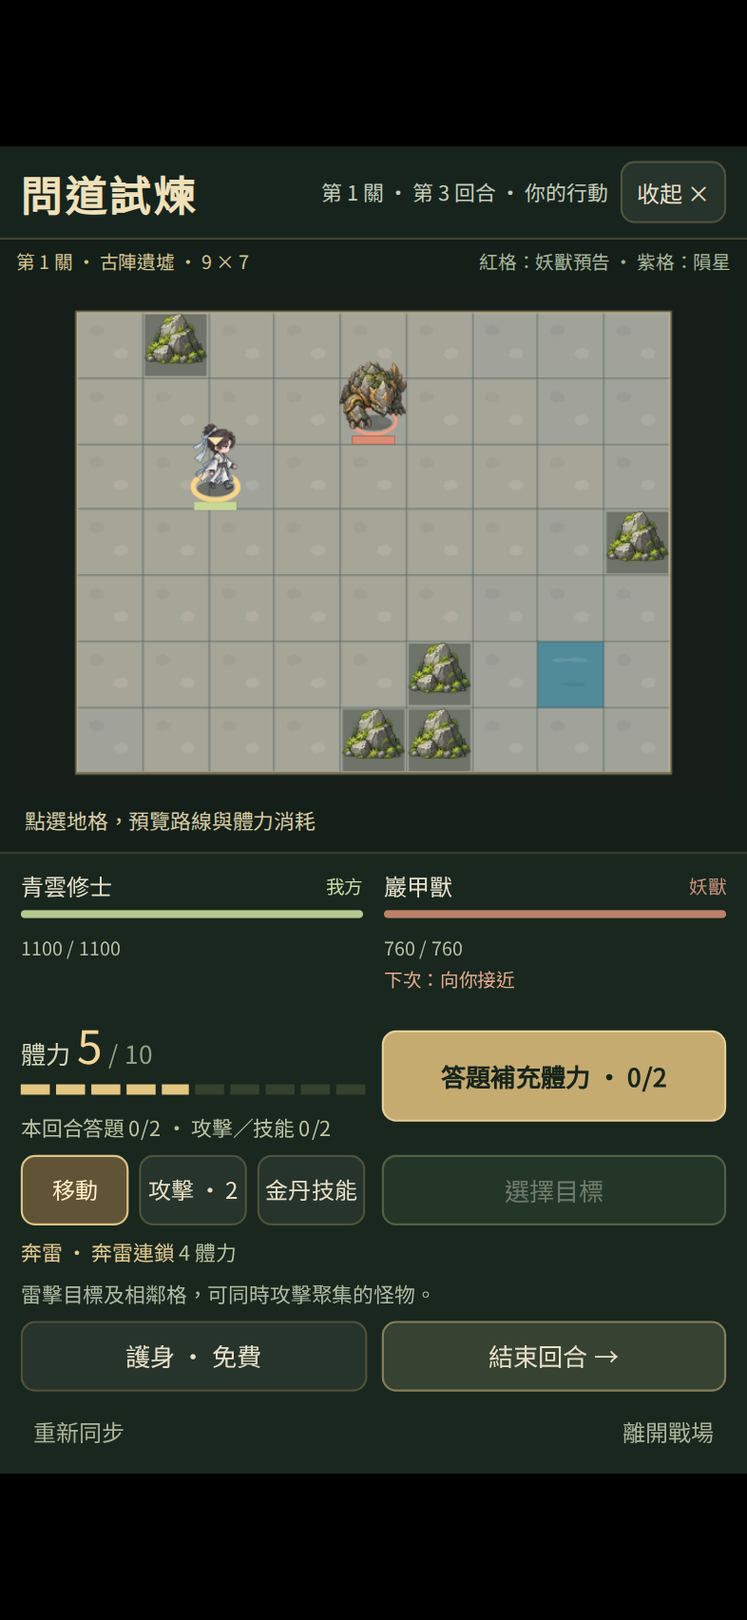
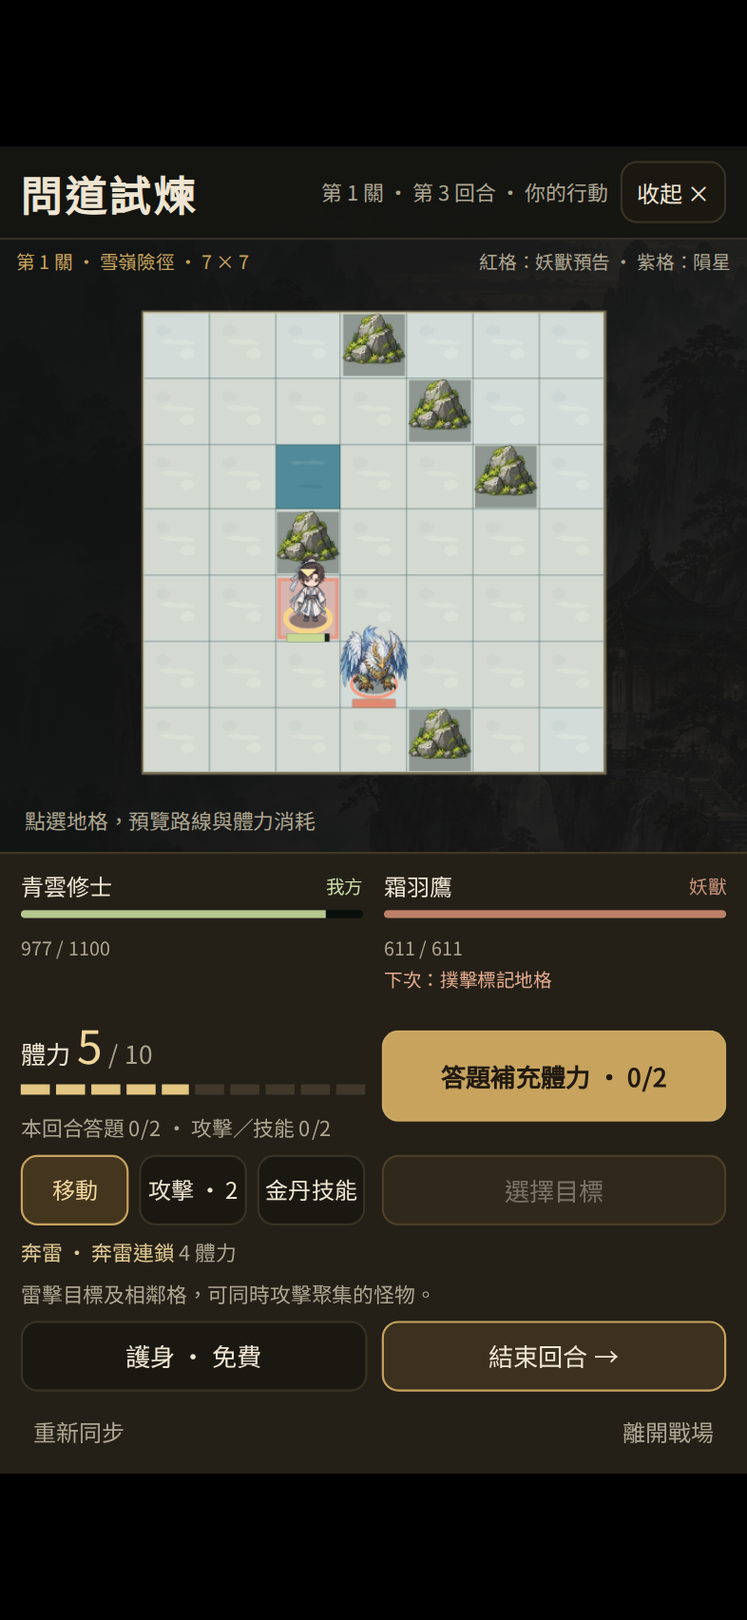
fix(trial): preserve the original question and ink-gold visual style
Reuse the existing question card, options, reading scale, and answer colors through shared theme selectors. Restore the mountain backdrop and ink-gold palette for the tactical trial while retaining compact controls and fixed stage ratios.

Keep stamina, movement, and sequential monster stages unchanged. Validate original-page appearance in portrait, landscape, and answer review; all 1,807 tests and six-size browser flows pass.

diff --git a/public/styles/tactical-combat.css b/public/styles/tactical-combat.css
@@ -1,21 +1,22 @@
-/* Ink, bronze and jade: contained by the existing 16:9 / 9:16 game stage. */
+/* Reuse the existing ink-and-gold theme inside the shared 16:9 / 9:16 stage. */
 /* The shared game-frame owns aspect fitting and black bars. Fill its logical
    canvas, so battle, questions and results scale together with the original UI. */
-#tactical-combat{position:fixed;inset:0;width:100%;height:100%;max-width:100%;max-height:100%;box-sizing:border-box;z-index:24000;display:flex;flex-direction:column;overflow:hidden;background:#101a17;color:#e5dfcb;font-family:inherit;font-size:14px;isolation:isolate}
+#tactical-combat{position:fixed;inset:0;width:100%;height:100%;max-width:100%;max-height:100%;box-sizing:border-box;z-index:24000;display:flex;flex-direction:column;overflow:hidden;background:var(--xq-ink,#17140f);color:var(--review-paper,var(--xq-paper,#eee4d0));font-family:var(--ui-font,inherit);font-size:14px;isolation:isolate}
+#tactical-combat::before,#tactical-combat .tc-modal:has(.tc-quiz)::before{content:"";position:absolute;inset:0;z-index:-1;pointer-events:none;background:linear-gradient(110deg,rgba(16,17,16,.94),rgba(22,22,18,.91)),var(--xq-scene-art,none) center/cover;filter:saturate(.35)}
 #tactical-combat[hidden],#tactical-combat [hidden]{display:none!important}
 #tactical-combat *{box-sizing:border-box}
 #tactical-combat button,#tactical-combat input{font:inherit}
-#tactical-combat button{min-height:42px;padding:9px 14px;border:1px solid #bba46b47;border-radius:7px;color:#e7dfc8;background:#26342b;cursor:pointer;line-height:1.35;transition:background .15s,border-color .15s}
-#tactical-combat button:hover:not(:disabled){background:#3b4734;border-color:#d7be81}
+#tactical-combat button{min-height:42px;padding:9px 14px;border:1px solid var(--quiet-line,#d2b9892e);border-radius:var(--ui-control-radius,8px);color:var(--review-paper,var(--xq-paper,#eee4d0));background:var(--quiet-inset,#1b1812);cursor:pointer;line-height:1.35;transition:background .15s,border-color .15s}
+#tactical-combat button:hover:not(:disabled){background:#3c301e;border-color:var(--xq-gold,#c7a35e)}
 #tactical-combat button:focus-visible,#tactical-combat canvas:focus-visible,#tactical-combat summary:focus-visible,#tactical-combat input:focus-visible{outline:2px solid #f1d48b;outline-offset:3px}
 #tactical-combat button:disabled{opacity:.42;cursor:default}
-#tactical-combat button[aria-pressed=true]{border-color:#dac286;background:#615335;color:#fff0c8}
-#tactical-combat h1,#tactical-combat h2,#tactical-combat h3{font-family:"Noto Serif TC","Songti TC",serif;margin:0;color:#f0e1ba}
+#tactical-combat button[aria-pressed=true]{border-color:var(--xq-gold,#c7a35e);background:#44351f;color:#f1d79f}
+#tactical-combat h1,#tactical-combat h2,#tactical-combat h3{font-family:"Noto Serif TC","Songti TC",serif;margin:0;color:var(--review-paper,var(--xq-paper,#eee4d0))}
 #tactical-combat p{margin:0;line-height:1.7}
-.tc-top{flex:0 0 auto;display:flex;align-items:center;justify-content:space-between;padding:8px 16px;border-bottom:1px solid #c0ac7240;background:#17241e;gap:10px}
+.tc-top{flex:0 0 auto;display:flex;align-items:center;justify-content:space-between;padding:8px 16px;border-bottom:1px solid var(--quiet-line,#d2b9892e);background:rgba(21,21,18,.96);gap:10px}
 .tc-top small{display:none}
 .tc-top h1{font-size:21px;letter-spacing:.12em;white-space:nowrap}
-.tc-top-right{display:flex;align-items:center;gap:16px}.tc-top-right>span{font-size:12px;color:#c5cdb9}
+.tc-top-right{display:flex;align-items:center;gap:16px}.tc-top-right>span{font-size:12px;color:var(--review-muted,var(--xq-muted,#ada591))}
 .tc-main{margin:0;padding:0;min-width:0;min-height:0;flex:1;overflow:auto;overscroll-behavior:contain}
 .tc-notice{flex:0 0 auto;min-height:36px;padding:8px 24px;background:#533e29;border-bottom:1px solid #987345;color:#ffdfae;font-size:13px}
 .tc-hub{display:grid;grid-template-columns:minmax(240px,.9fr) minmax(360px,1.1fr);gap:48px;align-items:start;padding:30px max(24px,calc((100% - 1120px)/2))}
@@ -29,39 +30,54 @@
 .tc-maps{display:grid;grid-template-columns:repeat(3,1fr);gap:7px}.tc-maps button{padding:12px 5px!important}.tc-maps b{display:block;font-weight:500}.tc-maps span{display:block;font-size:10px;color:#b6c1ac;margin-top:7px}
 .tc-branches{display:grid;grid-template-columns:repeat(auto-fit,minmax(170px,1fr));gap:9px}.tc-branches button{text-align:left;display:flex;flex-direction:column;gap:9px;padding:14px!important;min-height:130px!important}
 .tc-branches small{color:var(--core-color);letter-spacing:.1em}.tc-branches b{font-weight:500}.tc-branches em{font-size:10px;font-style:normal;color:#c6cbb5;margin-left:3px}.tc-branches span{font-size:12px;color:#c0c9b4;line-height:1.7}
-#tactical-combat .tc-primary{background:#c5ab70;color:#18251c;border-color:#e4ce99;font-weight:700;padding:13px 16px;min-height:46px}
-#tactical-combat .tc-primary:hover:not(:disabled){background:#dec48a}.tc-hub-intro .tc-primary{margin-top:25px}
-.tc-muted{color:#a0af98;font-size:12px;line-height:1.65}
+#tactical-combat .tc-primary{background:var(--xq-gold,#c7a35e);color:#211a10;border-color:var(--quiet-accent-line,#d2af6970);font-weight:700;padding:13px 16px;min-height:46px}
+#tactical-combat .tc-primary:hover:not(:disabled){background:#d2b16e}.tc-hub-intro .tc-primary{margin-top:25px}
+.tc-muted{color:var(--review-muted,var(--xq-muted,#ada591));font-size:12px;line-height:1.65}
 .tc-equipped-skill{padding:14px;border:1px solid #bba46b47;background:#26342b;border-radius:7px;line-height:1.7}.tc-equipped-skill b{color:#ead3a0;font-weight:500}.tc-equipped-skill p{color:#c0c9b4;font-size:12px;margin-top:5px!important}.tc-equipped-skill small{display:block;color:#9daf92;margin-top:8px;font-size:11px}
 .tc-join{display:flex;gap:8px}.tc-join input{min-width:0;width:100%;background:#0e1813;border:1px solid #bba46b47;color:#f3e1b4;border-radius:7px;padding:10px;font-family:monospace!important}
 .tc-codex{border-top:1px solid #bba46b30;padding:16px 0;font-size:12px}.tc-codex summary{cursor:pointer;color:#cfc49f}.tc-codex section{margin:18px 0}.tc-codex h3{font-size:15px;margin-bottom:6px!important}.tc-codex p{color:#a8b7a1;margin-top:6px!important}.tc-codex b{color:#d7d1b6;font-weight:500}
-.tc-game{display:grid;grid-template-columns:minmax(0,1fr) 280px;gap:0;overflow:hidden;background:#131f18}
+.tc-game{display:grid;grid-template-columns:minmax(0,1fr) 280px;gap:0;overflow:hidden;background:transparent}
 .tc-arena{display:flex;flex-direction:column;min-width:0;min-height:0;padding:6px 10px}
-.tc-arena-heading{display:flex;justify-content:space-between;gap:12px;font-size:11px;color:#a8b69c;padding:0 0 6px;flex:0 0 auto}.tc-arena-heading>span:first-child{color:#d4c392}
+.tc-arena-heading{display:flex;justify-content:space-between;gap:12px;font-size:11px;color:var(--review-muted,var(--xq-muted,#ada591));padding:0 0 6px;flex:0 0 auto}.tc-arena-heading>span:first-child{color:var(--xq-gold,#c7a35e)}
 .tc-arena canvas{display:block;flex:1;width:100%;min-height:0;touch-action:manipulation;cursor:crosshair;border-radius:4px}
-.tc-selection{flex:0 0 auto;padding:10px 4px 0;font-size:12px;color:#d7cba7;min-height:32px}
-.tc-sidebar{min-width:0;border-left:1px solid #bba46b30;background:#19271e;min-height:0;overflow:auto;overscroll-behavior:contain;padding:12px;display:flex;flex-direction:column;gap:10px}
-.tc-actors{display:grid;grid-template-columns:repeat(2,minmax(0,1fr));gap:8px;min-width:0}.tc-actor{min-width:0}.tc-actor.is-self,.tc-actor:nth-child(2):last-child{grid-column:1/-1}.tc-actor>div:first-child{display:flex;justify-content:space-between;gap:5px;align-items:center}.tc-actor b{font-size:13px;font-weight:500;min-width:0;overflow:hidden;text-overflow:ellipsis;white-space:nowrap}.tc-actor span{font-size:10px;color:#c9927c;white-space:nowrap;flex-shrink:0}.tc-actor.is-self span{color:#c9dba6}.tc-actor small{font-size:10px;color:#b7bea7}.tc-actor p{font-size:10px;color:#e4ab8d;line-height:1.4}.tc-actor.is-down{opacity:.4}
+.tc-selection{flex:0 0 auto;padding:10px 4px 0;font-size:12px;color:var(--review-muted,var(--xq-muted,#ada591));min-height:32px}
+.tc-sidebar{min-width:0;border-left:1px solid var(--quiet-line,#d2b9892e);background:var(--review-panel,var(--quiet-surface,#242018));min-height:0;overflow:auto;overscroll-behavior:contain;padding:12px;display:flex;flex-direction:column;gap:10px}
+.tc-actors{display:grid;grid-template-columns:repeat(2,minmax(0,1fr));gap:8px;min-width:0}.tc-actor{min-width:0}.tc-actor.is-self,.tc-actor:nth-child(2):last-child{grid-column:1/-1}.tc-actor>div:first-child{display:flex;justify-content:space-between;gap:5px;align-items:center}.tc-actor b{font-size:13px;font-weight:500;min-width:0;overflow:hidden;text-overflow:ellipsis;white-space:nowrap}.tc-actor span{font-size:10px;color:#c9927c;white-space:nowrap;flex-shrink:0}.tc-actor.is-self span{color:#c9dba6}.tc-actor small{font-size:10px;color:var(--review-muted,var(--xq-muted,#ada591))}.tc-actor p{font-size:10px;color:#e4ab8d;line-height:1.4}.tc-actor.is-down{opacity:.4}
 .tc-health{height:5px;margin:6px 0 2px;background:#080f0a;border-radius:2px;overflow:hidden}.tc-health i{display:block;height:100%;background:#bd8169;transition:width .2s}.is-self .tc-health i{background:#b6c88e}
-.tc-command{display:flex;flex-direction:column;gap:7px}.tc-stamina b{display:block;font-size:12px;font-weight:400;color:#d2d7bc}.tc-stamina strong{font-size:27px;color:#f1d69a;font-weight:500}.tc-stamina span{font-size:12px;color:#91a287}.tc-stamina>div{display:grid;grid-template-columns:repeat(10,1fr);gap:3px;margin:6px 0}.tc-stamina i{display:block;height:5px;background:#34412c}.tc-stamina i.filled{background:#e3c682}.tc-stamina small{font-size:11px;color:#b9c5a5}
+.tc-command{display:flex;flex-direction:column;gap:7px}.tc-stamina b{display:block;font-size:12px;font-weight:400;color:var(--review-paper,var(--xq-paper,#eee4d0))}.tc-stamina strong{font-size:27px;color:#f1d69a;font-weight:500}.tc-stamina span{font-size:12px;color:var(--review-muted,var(--xq-muted,#ada591))}.tc-stamina>div{display:grid;grid-template-columns:repeat(10,1fr);gap:3px;margin:6px 0}.tc-stamina i{display:block;height:5px;background:var(--quiet-line,#d2b9892e)}.tc-stamina i.filled{background:#e3c682}.tc-stamina small{font-size:11px;color:var(--review-muted,var(--xq-muted,#ada591))}
 .tc-action-tabs{display:grid;grid-template-columns:repeat(3,minmax(0,1fr));gap:5px}.tc-action-tabs button{font-size:12px!important;padding:9px 2px!important;min-height:38px!important}
-.tc-skill-info{font-size:11px;line-height:1.6;min-height:50px}.tc-skill-info b{display:block;font-weight:500;color:#e0c991}.tc-skill-info span{color:#b5c39d;font-size:10px}.tc-skill-info p{color:#aebaa3;margin-top:3px!important}
-#tactical-combat .tc-confirm{background:#344e38;border-color:#a1b383;color:#e5edd6}
+.tc-skill-info{font-size:11px;line-height:1.6;min-height:50px}.tc-skill-info b{display:block;font-weight:500;color:#e0c991}.tc-skill-info span{color:var(--review-muted,var(--xq-muted,#ada591));font-size:10px}.tc-skill-info p{color:var(--review-muted,var(--xq-muted,#ada591));margin-top:3px!important}
+#tactical-combat .tc-confirm{background:#44351f;border-color:var(--quiet-accent-line,#d2af6970);color:var(--review-paper,var(--xq-paper,#eee4d0))}
 .tc-turn-buttons{display:flex;gap:7px}.tc-turn-buttons button{font-size:12px!important;flex:1;padding:8px 4px!important}
-.tc-log{border-top:1px solid #c4ad7830;padding-top:10px;max-height:120px;overflow:auto;font-size:10px;color:#a1b296;flex:1;min-height:45px}.tc-log p{margin-bottom:5px!important}.tc-log .is-damage{color:#dba384}.tc-log .is-answer{color:#d6d8ae}.tc-log .is-cast{color:#d7c3e8}
-.tc-game-footer{display:flex;justify-content:space-between;gap:6px;margin-top:auto}.tc-game-footer button{font-size:11px!important;min-height:32px!important;background:transparent!important;padding:5px!important;border-color:transparent!important;color:#a8b499!important}
+.tc-log{border-top:1px solid #c4ad7830;padding-top:10px;max-height:120px;overflow:auto;font-size:10px;color:var(--review-muted,var(--xq-muted,#ada591));flex:1;min-height:45px}.tc-log p{margin-bottom:5px!important}.tc-log .is-damage{color:#dba384}.tc-log .is-answer{color:#d6d8ae}.tc-log .is-cast{color:#d7c3e8}
+.tc-game-footer{display:flex;justify-content:space-between;gap:6px;margin-top:auto}.tc-game-footer button{font-size:11px!important;min-height:32px!important;background:transparent!important;padding:5px!important;border-color:transparent!important;color:var(--review-muted,var(--xq-muted,#ada591))!important}
 .tc-waiting{display:grid;place-items:center;text-align:center;padding:20px}.tc-waiting>div{max-width:460px;display:grid;gap:22px}.tc-waiting h2{font-size:30px}.tc-waiting p{color:#b1bea6}.tc-waiting code{font-size:24px;letter-spacing:.12em;color:#edce8a;border:1px solid #bba46b47;padding:20px;background:#203225;user-select:all;overflow-wrap:anywhere}
-.tc-modal{position:absolute;inset:0;background:#040c08ba;display:grid;place-items:center;z-index:5;padding:20px;overflow:auto}
-.tc-dialog{width:min(660px,100%);max-height:100%;overflow:auto;overscroll-behavior:contain;background:#1d2c22;border:1px solid #bda36b85;border-radius:10px;padding:28px;box-shadow:0 18px 70px #0009;display:flex;flex-direction:column;gap:18px;outline:none}
-.tc-dialog h2{font-size:27px;font-weight:500}.tc-dialog p{color:#c6ccb5}.tc-dialog-heading{display:flex;align-items:center;justify-content:space-between;gap:15px}.tc-dialog-heading small{font-size:11px;color:#cab77d}.tc-dialog-heading button{padding:3px!important;min-width:35px;min-height:35px!important;background:transparent!important}
-.tc-dialog .tc-question{font-family:inherit;font-size:19px;font-weight:500;line-height:1.8;overflow-wrap:anywhere}.tc-options{display:grid;gap:10px}.tc-options button{display:flex;gap:14px;text-align:left;align-items:center;min-height:54px!important;line-height:1.7!important;padding:12px!important;background:#263a2b!important}.tc-options button>span{color:#dfc286;font-family:serif;font-size:18px}.tc-options button>div{min-width:0;overflow-wrap:anywhere}
-.tc-explanation{padding:16px;border:1px solid #bba46b3b;background:#bba46b0a;line-height:1.85;overflow-wrap:anywhere;font-size:14px}.tc-dialog h2.tc-correct{color:#c0d89e}.tc-dialog h2.tc-wrong{color:#efb496}.tc-review-options{font-size:13px;display:grid;gap:5px}.tc-review-options p{padding:6px 10px;border:1px solid transparent}.tc-review-options p.is-correct{background:#42613a55;border-color:#96bc75;color:#d6e7bf}.tc-review-options p.is-wrong{background:#75433555;border-color:#b97e61;color:#f2c0a5}.tc-review-question{font-size:15px;line-height:1.7}.tc-result-stats{display:flex;gap:25px;color:#ead5a4;font-size:15px}
+.tc-modal{position:absolute;inset:0;background:#100f0bd9;display:grid;place-items:center;z-index:5;padding:20px;overflow:auto}
+.tc-dialog{width:min(660px,100%);max-height:100%;overflow:auto;overscroll-behavior:contain;background:var(--review-panel,var(--quiet-surface,#242018));border:1px solid var(--quiet-line,#d2b9892e);border-radius:var(--ui-panel-radius,12px);padding:28px;box-shadow:0 18px 70px #0009;display:flex;flex-direction:column;gap:18px;outline:none}
+.tc-dialog h2{font-size:27px;font-weight:500}.tc-dialog p{color:var(--review-muted,var(--xq-muted,#ada591))}.tc-dialog-heading{display:flex;align-items:center;justify-content:space-between;gap:15px}.tc-dialog-heading small{font-size:11px;color:#cab77d}.tc-dialog-heading button{padding:3px!important;min-width:35px;min-height:35px!important;background:transparent!important}
+#tactical-combat .tc-modal:has(.tc-quiz){background:var(--xq-ink,#17140f);place-items:start center}
+#tactical-combat .tc-quiz{width:min(900px,100%);padding:0;background:transparent;border:0;border-radius:0;box-shadow:none;gap:14px}
+.tc-quiz .quiz-main-column{display:flex;flex-direction:column;gap:16px;min-width:0}
+.tc-question-sheet{position:relative;margin:0}
+.tc-question-sheet .quiz-card-tools{position:absolute;top:14px;right:18px;display:flex;gap:8px;max-width:calc(100% - 36px)}
+.tc-question-badge{display:block;padding:4px 8px;border:1px solid;border-radius:4px;font-size:11px;line-height:1.5}
+.tc-question{margin:0;overflow-wrap:anywhere}
+.tc-options{display:grid;gap:12px}
+.tc-options button{display:flex;align-items:center;gap:12px;text-align:left;line-height:1.65}
+.tc-options button>span:first-child{display:grid;place-items:center;flex:0 0 30px}
+.tc-options .quiz-rich-option{min-width:0;overflow-wrap:anywhere}
+#tactical-combat .tc-quiz .tc-options>button:disabled{opacity:1}
+.tc-feedback{padding:20px;display:flex;flex-direction:column;gap:14px}
+.tc-explanation{padding:16px;border:1px solid var(--quiet-line,#d2b9892e);border-radius:8px;background:#0002;overflow-wrap:anywhere}
+.tc-explanation-label{display:block;margin-bottom:5px;font-size:12px;color:var(--xq-gold,#c7a35e)}
+#tactical-combat .tc-feedback-title{font-size:18px;font-weight:500;line-height:1.4}#tactical-combat .tc-feedback-title.tc-correct{color:#c0d89e}#tactical-combat .tc-feedback-title.tc-wrong{color:#efb496}
+.tc-result-stats{display:flex;gap:25px;color:#ead5a4;font-size:15px}
 @media(orientation:portrait){
   .tc-top{padding:7px 10px}.tc-top h1{font-size:20px}.tc-top-right{gap:6px;flex-direction:row;align-items:center}.tc-top-right>span{font-size:10px;max-width:146px;line-height:1.4}.tc-top-right button{min-height:30px!important;padding:5px 7px!important;font-size:11px!important;white-space:nowrap}
   .tc-hub{grid-template-columns:1fr;gap:20px;padding:18px}.tc-hub-intro{position:static;padding:0}.tc-hub-intro h2{font-size:26px;max-width:none;margin:8px 0 12px!important}.tc-hub-intro p{font-size:12px;max-width:none}.tc-hub-intro .tc-primary{margin-top:12px;width:100%}.tc-hub-config{gap:10px}.tc-branches button{min-height:125px!important;padding:12px!important}.tc-branches{grid-template-columns:1fr 1fr}
   .tc-game{grid-template-columns:minmax(0,1fr);grid-template-rows:minmax(0,1fr) auto}.tc-arena{padding:4px 8px}.tc-arena-heading{font-size:9px}.tc-selection{font-size:10px;min-height:22px;padding-top:3px}.tc-sidebar{min-width:0;border-left:0;border-top:1px solid #bba46b30;padding:7px 10px;gap:6px;max-height:none;display:grid;grid-template-columns:minmax(0,1fr);overflow:auto}
   .tc-actors{display:flex;flex-direction:row;gap:10px}.tc-actor{flex:1;min-width:0}.tc-actor b{font-size:11px;overflow:hidden;white-space:nowrap;text-overflow:ellipsis;max-width:75px}.tc-actor span{font-size:9px}.tc-actors:has(.tc-actor:nth-child(3)) .tc-actor:not(.is-self) span{display:none}.tc-actor small{font-size:9px}.tc-actor p{font-size:9px;max-height:28px;overflow:hidden}.tc-health{height:4px;margin-top:4px}.tc-command{display:grid;grid-template-columns:repeat(2,minmax(0,1fr));gap:5px 8px}.tc-stamina{grid-column:1}.tc-stamina strong{font-size:22px}.tc-stamina>div{margin:4px 0}.tc-stamina small{font-size:10px}.tc-command>.tc-primary{grid-column:2;grid-row:1;align-self:center;font-size:12px!important;padding:10px!important;min-height:44px!important}.tc-action-tabs{grid-column:1;grid-row:2}.tc-action-tabs button{white-space:nowrap;font-size:11px!important;padding:7px 2px!important;min-height:34px!important}.tc-command>.tc-confirm{grid-column:2;grid-row:2;font-size:12px!important;min-height:34px!important;padding:8px!important}.tc-skill-info{grid-column:1/-1;grid-row:3;min-height:0;font-size:10px}.tc-skill-info p{font-size:10px;line-height:1.4}.tc-turn-buttons{grid-column:1/-1;grid-row:4}.tc-turn-buttons button{min-height:34px!important}.tc-log{display:none}.tc-game-footer{grid-column:1/-1}.tc-game-footer button{min-height:24px!important}.tc-notice{font-size:11px;padding:7px 14px;min-height:30px}
-  .tc-modal{padding:10px}.tc-dialog{padding:19px;gap:14px}.tc-dialog .tc-question{font-size:17px}.tc-dialog h2{font-size:23px}.tc-options button{font-size:14px!important}.tc-waiting code{font-size:20px}
+  .tc-modal{padding:10px}.tc-dialog{padding:19px;gap:14px}.tc-dialog h2{font-size:23px}.tc-waiting code{font-size:20px}
 }
 @media(orientation:landscape) and (max-height:620px){.tc-top{padding:6px 16px}.tc-top h1{font-size:19px}.tc-top small{display:none}.tc-game{grid-template-columns:minmax(0,1fr) 268px}.tc-sidebar{padding:10px;gap:8px}.tc-actors{display:flex;flex-direction:row;flex-wrap:wrap;gap:7px}.tc-actor{min-width:90px;flex:1}.tc-actor p{font-size:9px}.tc-skill-info{min-height:45px}.tc-log{display:none}.tc-hub{padding-top:18px}.tc-hub-intro{padding-top:5px}.tc-hub-intro h2{font-size:29px}.tc-arena{padding:7px 12px}.tc-selection{font-size:10px;padding-top:5px;min-height:26px}.tc-command{gap:7px}}
 @media(prefers-reduced-motion:reduce){#tactical-combat *,#tactical-combat *::before{transition:none!important;animation:none!important}}

diff --git a/public/cultivation/tactical-combat.js b/public/cultivation/tactical-combat.js
@@ -130,8 +130,8 @@ function updateClock(){
     `${state.trial?'第 '+state.trial.stage+' 關 · ':''}第 ${state.turn} 回合 · ${mine?'你的行動':'對手行動'}${state.deadlineMs?' · '+Math.max(0,Math.ceil((state.deadlineMs-now)/1000))+' 秒':''}`;
   if(state.status==='active'&&state.deadlineMs&&now>=state.deadlineMs&&!busy&&Date.now()>=deadlineSyncAt){deadlineSyncAt=Date.now()+retryMs;void sync();}
 }
-function showModal(html){
-  modalOpen=true;$('[data-modal]').hidden=false;$('[data-modal]').innerHTML=`<section class="tc-dialog" role="dialog" aria-modal="true" tabindex="-1">${html}</section>`;
+function showModal(html,{quiz=false}={}){
+  modalOpen=true;$('[data-modal]').hidden=false;$('[data-modal]').innerHTML=`<section class="tc-dialog${quiz?' tc-quiz':''}" role="dialog" aria-modal="true" tabindex="-1">${html}</section>`;
   $('[data-main]').inert=true;$('[data-close]').disabled=true;
   $('[data-modal] .tc-dialog').focus();window.quizMathTypeset?.($('[data-modal]'));
 }
@@ -196,8 +196,11 @@ async function question(){
   }catch(err){if(valid(e,account))showModal('<h2>題目尚未就緒</h2><p>'+esc(err.message)+'</p><button type="button" data-dismiss>返回戰場後重試</button>');}
   finally{if(valid(e,account)){busy=false;updateControls();const button=$('[data-quiz]');if(button)button.disabled=state.turnUid!==uid||state.actors.find(a=>a.uid===uid).questions>=2;schedule();}}
 }
+function questionSheet(q,review=null){
+  return `<div class="glass-panel tc-question-sheet"><div class="quiz-card-tools"><span class="tc-question-badge">${esc([q.subject,q.topic].filter(Boolean).join(' · ')||'問道試煉')}</span></div><h3 class="tc-question">${rich(q.q)}</h3></div><div class="tc-options">${q.opts.map((v,i)=>`<button type="button" ${review?`disabled class="cursor-not-allowed ${i===review.answerIndex?'bg-green-600':i===review.choice?'bg-red-600':''}"`:`data-choice="${i}"`}><span>${String.fromCharCode(65+i)}</span><span class="quiz-rich-option">${rich(v)}${review&&i===review.answerIndex?' ✓':''}</span></button>`).join('')}</div>`;
+}
 function paintQuestion(q){
-  showModal(`<div class="tc-dialog-heading"><small>${esc(q.subject)} · 答對 +4 / 答錯 +1 體力</small><button type="button" data-dismiss aria-label="返回戰場">×</button></div><h2 class="tc-question">${rich(q.q)}</h2><div class="tc-options">${q.opts.map((v,i)=>`<button type="button" data-choice="${i}"><span>${String.fromCharCode(65+i)}</span><div>${rich(v)}</div></button>`).join('')}</div><p class="tc-muted">每回合最多答兩題；體力上限 10。</p>`);
+  showModal(`<div class="tc-dialog-heading"><small>答對 +4 / 答錯 +1 體力</small><button type="button" data-dismiss aria-label="返回戰場">返回戰場 ×</button></div><div class="quiz-main-column">${questionSheet(q)}</div><p class="tc-muted">每回合最多答兩題；體力上限 10。</p>`,{quiz:true});
 }
 async function answer(choice){
   if(busy||!state?.question)return;busy=true;const e=epoch,account=uid,q=state.question,serial=++op;
@@ -207,7 +210,7 @@ async function answer(choice){
     if(!valid(e,account))return;
     state=result.state;applyProgress(state);clockOffset=state.serverNowMs-Date.now();appliedOp=serial;const review=state.review;
     window.QAGameAudio?.answer(review.correct,'tactical:'+state.id+':'+q.id);
-    showModal(`<small>體力 +${review.gain}</small><h2 class="${review.correct?'tc-correct':'tc-wrong'}">${review.correct?'靈思通明':'訂正後再出發'}</h2><div class="tc-review-question">${rich(review.q)}</div><div class="tc-review-options">${review.opts.map((v,i)=>`<p class="${i===review.answerIndex?'is-correct':i===review.choice?'is-wrong':''}">${String.fromCharCode(65+i)}. ${rich(v)}${i===review.answerIndex?' ✓':''}</p>`).join('')}</div><div class="tc-explanation">${rich(review.explanation)}</div><button type="button" class="tc-primary" data-continue>返回戰場 · 使用體力</button>`);
+    showModal(`<div class="tc-dialog-heading"><small>體力 +${review.gain}</small></div><div class="quiz-main-column">${questionSheet({...q,q:review.q,opts:review.opts},review)}<section class="glass-panel tc-feedback"><h3 class="tc-feedback-title ${review.correct?'tc-correct':'tc-wrong'}">${review.correct?'靈思通明':'訂正後再出發'}</h3><div class="tc-explanation"><span class="tc-explanation-label">題解參悟</span><div class="tc-feedback-text">${rich(review.explanation)}</div></div><button type="button" class="tc-primary" data-continue>返回戰場 · 使用體力</button></section></div>`,{quiz:true});
     renderer?.update(state,uid,action,null);
   }catch(err){if(valid(e,account)){
     const message=document.createElement('p');message.className='tc-wrong';message.setAttribute('role','alert');message.textContent=err.message+'；可再按一次答案重試，體力不會重複計算。';

diff --git a/public/styles/interface-cleanup-pages.css b/public/styles/interface-cleanup-pages.css
@@ -191,15 +191,23 @@ html body.ui-cleanup #page-raid :is(.raid-lobby-panel,.raid-member-card,.raid-re
    by each game's existing correct/wrong/disabled rules. */
 html body.ui-cleanup #page-quiz {max-width:900px;padding-inline:24px}
 html body.ui-cleanup #page-quiz #quiz-container {margin-top:0}
+html body.ui-cleanup #tactical-combat .tc-quiz .quiz-main-column>.glass-panel:first-child,
 html body.ui-cleanup #page-quiz .quiz-main-column>.glass-panel:first-child {border:1px solid var(--review-line)!important;border-left:2px solid #c0a16a!important;border-radius:10px!important;background:#24231d!important;box-shadow:none!important;padding:58px 24px 24px}
+html body.ui-cleanup #tactical-combat .tc-quiz .tc-question,
 html body.ui-cleanup #page-quiz #question-text {font-size:20px;line-height:1.9;font-weight:500!important;letter-spacing:.02em;color:var(--review-paper)!important}
+html body.ui-cleanup #tactical-combat .tc-quiz .quiz-main-column>.glass-panel:first-child>.text-6xl,
 html body.ui-cleanup #page-quiz .quiz-main-column>.glass-panel:first-child>.text-6xl {display:none}
+html body.ui-cleanup #tactical-combat .tc-quiz :is(#options-container,.tc-options),
 html body.ui-cleanup #page-quiz #options-container {display:grid;grid-template-columns:repeat(2,minmax(0,1fr));gap:12px}
+html body.ui-cleanup #tactical-combat .tc-quiz :is(#options-container,.tc-options)>button,
 html body.ui-cleanup #page-quiz #options-container>button {min-height:64px;padding:16px;border-radius:9px!important;box-shadow:none!important;margin:0;font-size:16px;line-height:1.65}
+html body.ui-cleanup #tactical-combat .tc-quiz :is(#options-container,.tc-options)>button:not(.bg-green-600):not(.bg-red-600),
 html body.ui-cleanup #page-quiz #options-container>button:not(.bg-green-600):not(.bg-red-600) {border-color:var(--review-line)!important;background:#ffffff04!important}
+html body.ui-cleanup #tactical-combat .tc-quiz :is(#options-container,.tc-options)>button>span:first-child,
 html body.ui-cleanup #page-quiz #options-container>button>span:first-child {width:30px;height:30px;background:#c2a16d10;border:1px solid #c2a16d40;border-radius:6px;font-size:13px}
 html body.ui-cleanup #page-quiz .quiz-footer-actions {margin-top:18px;gap:8px}
 html body.ui-cleanup #page-quiz .quiz-footer-actions>button {min-height:44px;font-size:12px;color:#b0a28a}
+html body.ui-cleanup #tactical-combat .tc-quiz .quiz-card-tools,
 html body.ui-cleanup #page-quiz .quiz-card-tools {top:14px;right:18px;gap:8px}
 html body.ui-cleanup #page-quiz #btn-extended-practice-stop.hidden {display:none!important}
 html body.ui-cleanup #page-quiz .quiz-helper-launcher {box-shadow:none;border:1px solid var(--review-line);border-radius:9px}
@@ -277,9 +285,13 @@ html body.ui-cleanup :is(.quest-dialog,.xpp-dialog,.dm-card,.uib-modal) {border-
   html body.ui-cleanup #page-raid #raid-hub .raid-reward-preview span {font-size:11px}
   html body.ui-cleanup #page-raid #raid-hub .raid-entry-actions {padding:14px 12px}
   html body.ui-cleanup #page-quiz {padding-inline:16px}
+  html body.ui-cleanup #tactical-combat .tc-quiz .quiz-main-column>.glass-panel:first-child,
   html body.ui-cleanup #page-quiz .quiz-main-column>.glass-panel:first-child {padding:58px 18px 20px}
+  html body.ui-cleanup #tactical-combat .tc-quiz .tc-question,
   html body.ui-cleanup #page-quiz #question-text {font-size:17px;line-height:1.8}
+  html body.ui-cleanup #tactical-combat .tc-quiz :is(#options-container,.tc-options),
   html body.ui-cleanup #page-quiz #options-container {grid-template-columns:minmax(0,1fr);gap:10px}
+  html body.ui-cleanup #tactical-combat .tc-quiz :is(#options-container,.tc-options)>button,
   html body.ui-cleanup #page-quiz #options-container>button {min-height:56px;padding:12px 14px;font-size:15px}
   html body.ui-cleanup #page-quiz .quiz-helper-shell.collapsed {inset:auto 16px 72px auto}
   html body.ui-cleanup #page-quiz .quiz-helper-shell.collapsed .quiz-helper-launcher {min-width:44px;height:44px}

diff --git a/public/xianxia.css b/public/xianxia.css
@@ -404,20 +404,31 @@ body.xianxia-theme .quiz-main-column > .glass-panel:first-child {
   border-left: 5px solid #8c7750; padding: 56px 32px 30px; border-radius: 4px;
   box-shadow: 0 14px 35px #04151140, inset 0 0 35px #947b4620;
 }
+body.xianxia-theme #tactical-combat .tc-question,
 body.xianxia-theme #question-text { color: #25392e; font-size: 19px; line-height: 1.95; font-weight: 500; }
+body.xianxia-theme #tactical-combat .tc-question-badge,
 body.xianxia-theme #quiz-badge { color: #64573a; background: #c9b98e33; border-color: #96855760; font-size: 11px; max-width: calc(100% - 34px); overflow-wrap: anywhere; }
+body.xianxia-theme #tactical-combat .tc-options > button,
 body.xianxia-theme #options-container > button {
   background: #173128; border: 1px solid #b4ae8650; color: #eee8d5;
   border-radius: 5px; min-height: 68px; padding: 16px 20px; font-size: 15px;
 }
+body.xianxia-theme #tactical-combat .tc-options > button:not(.cursor-not-allowed):hover,
 body.xianxia-theme #options-container > button:not(.cursor-not-allowed):hover { border-color: #d1bd7d; background: #254534; }
+body.xianxia-theme #tactical-combat .tc-options > button:hover,
 body.xianxia-theme #options-container > button:hover { box-shadow: 0 4px 16px #030f0a40; transform: translateY(-1px); }
+body.xianxia-theme #tactical-combat .tc-options > button::after,
 body.xianxia-theme #options-container > button::after { display: none; }
+body.xianxia-theme #tactical-combat .tc-options > button > span:first-child,
 body.xianxia-theme #options-container > button > span:first-child { background: #a5b58a12; color: #decb98; border: 1px solid #a7ac7750; border-radius: 3px; flex-shrink: 0; }
+body.xianxia-theme #tactical-combat .tc-options > .bg-green-600,
 body.xianxia-theme #options-container > .bg-green-600 { background: #285a40; border-color: #a8d1a4; opacity: 1; }
+body.xianxia-theme #tactical-combat .tc-options > .bg-red-600,
 body.xianxia-theme #options-container > .bg-red-600 { background: #6b3830; border-color: #d9a492; opacity: 1; }
 body.xianxia-theme #feedback-section { border-color: #a6b78d70; }
+body.xianxia-theme #tactical-combat .tc-feedback-title,
 body.xianxia-theme #feedback-title { font-family: var(--xq-serif); }
+body.xianxia-theme #tactical-combat .tc-feedback-text,
 body.xianxia-theme #feedback-text { font-size: 15px; line-height: 1.9; }
 body.xianxia-theme #solo-progress-panel { position: static; margin-top: 8px; }
 /* 山門登入 */
@@ -479,6 +490,7 @@ body.xianxia-theme #nav-grid button:hover i { color: #e1cc98; transform: transla
   body.xianxia-theme .home-actions > button > div:first-child { width: 30px; height: 34px; flex-shrink: 0; }
   body.xianxia-theme .home-actions .font-sci { font-size: 16px; letter-spacing: .04em; }
   body.xianxia-theme .home-actions .font-mono { font-size: 9px; letter-spacing: 0; }
+  body.xianxia-theme #tactical-combat .tc-question,
   body.xianxia-theme #question-text { font-size: 17px; }
   body.xianxia-theme .quiz-main-column > .glass-panel:first-child { padding-inline: 22px; }
   body.xianxia-theme #bottom-nav > .glass-capsule { min-height: 68px; padding-inline: 4px; }

diff --git a/public/xianxia-bright-accents.css b/public/xianxia-bright-accents.css
@@ -333,33 +333,41 @@ body.xianxia-theme .quiz-main-column>.glass-panel:first-child{
     0 14px 35px rgba(4,21,17,.24),
     inset 0 0 32px rgba(82,60,30,.10)!important;
 }
+body.xianxia-theme #tactical-combat .tc-question,
+body.xianxia-theme #tactical-combat .tc-question *,
 body.xianxia-theme #question-text,
 body.xianxia-theme #question-text *{
   color:#211a10!important;
   text-shadow:none!important;
 }
+body.xianxia-theme #tactical-combat .tc-question :is(mjx-container,mjx-container *),
 body.xianxia-theme #question-text :is(mjx-container,mjx-container *){
   color:#211a10!important;
 }
+body.xianxia-theme #tactical-combat .tc-question-badge,
 body.xianxia-theme #quiz-badge{
   background:rgba(38,31,21,.82)!important;
   color:#f4dfaa!important;
   border-color:rgba(112,88,48,.55)!important;
 }
+body.xianxia-theme #tactical-combat .tc-options>button:not(.bg-green-600):not(.bg-red-600),
 body.xianxia-theme #options-container>button:not(.bg-green-600):not(.bg-red-600){
   background:
     linear-gradient(145deg,rgba(46,54,39,.96),rgba(26,36,29,.97))!important;
   border-color:rgba(218,202,139,.42)!important;
   box-shadow:inset 0 1px rgba(255,255,255,.045),0 7px 18px rgba(0,0,0,.14)!important;
 }
+body.xianxia-theme #tactical-combat .tc-options>button:not(.cursor-not-allowed):not(.bg-green-600):not(.bg-red-600):hover,
 body.xianxia-theme #options-container>button:not(.cursor-not-allowed):not(.bg-green-600):not(.bg-red-600):hover{
   background:linear-gradient(145deg,rgba(63,79,54,.98),rgba(35,49,38,.98))!important;
   border-color:#e1c77d!important;
 }
+body.xianxia-theme #tactical-combat .tc-options>.bg-green-600,
 body.xianxia-theme #options-container>.bg-green-600{
   background:linear-gradient(145deg,#3f7654,#285a40)!important;
   border-color:#b7dcae!important;
 }
+body.xianxia-theme #tactical-combat .tc-options>.bg-red-600,
 body.xianxia-theme #options-container>.bg-red-600{
   background:linear-gradient(145deg,#835047,#69372f)!important;
   border-color:#e2ad9a!important;

diff --git a/public/styles/content-format.css b/public/styles/content-format.css
@@ -241,6 +241,7 @@ body.xianxia-theme #store-grid > .store-card:active { transform: none; }
 
 /* Question, option and explanation content use the same reading scale across
    solo practice, daily meditation, caves, duels and raids. MathJax keeps its font. */
+body.xianxia-theme #tactical-combat .tc-question,
 body.xianxia-theme #question-text,
 body.xianxia-theme #bv2-question,
 body.xianxia-theme #page-raid .raid-question-shell > h2,
@@ -250,6 +251,7 @@ body.xianxia-theme .dm-question {
   line-height: 1.8 !important;
   overflow-wrap: anywhere;
 }
+body.xianxia-theme #tactical-combat .tc-options > button,
 body.xianxia-theme #options-container > button,
 body.xianxia-theme .bv2-option b,
 body.xianxia-theme #page-raid .raid-option > b,
@@ -260,9 +262,11 @@ body.xianxia-theme .dm-option span {
   overflow-wrap: anywhere;
 }
 body.xianxia-theme :is(.bv2-option,.raid-option,.dt-option,.dm-option),
+body.xianxia-theme #tactical-combat .tc-options > button,
 body.xianxia-theme #options-container > button {
   border-radius: var(--ui-control-radius) !important;
 }
+body.xianxia-theme #tactical-combat .tc-feedback-text,
 body.xianxia-theme #feedback-text,
 body.xianxia-theme .bv2-explanation,
 body.xianxia-theme #page-raid .raid-explain,

diff --git a/public/xianxia-gold.css b/public/xianxia-gold.css
@@ -199,22 +199,27 @@ body.xianxia-theme .quiz-main-column > .glass-panel:first-child {
   border-left-color: #d0a34a;
   box-shadow: 0 14px 35px rgba(0,0,0,.46), inset 0 0 35px rgba(216,177,93,.035);
 }
+body.xianxia-theme #tactical-combat .tc-question,
 body.xianxia-theme #question-text { color: #f2ecdf; }
+body.xianxia-theme #tactical-combat .tc-question-badge,
 body.xianxia-theme #quiz-badge {
   color: #d6b66f;
   background: rgba(216,177,93,.08);
   border-color: rgba(216,177,93,.25);
 }
+body.xianxia-theme #tactical-combat .tc-options > button,
 body.xianxia-theme #options-container > button {
   background: linear-gradient(145deg, #161616, #090909);
   border-color: rgba(216,177,93,.24);
   color: #eee8dc;
   box-shadow: 0 6px 18px rgba(0,0,0,.30);
 }
+body.xianxia-theme #tactical-combat .tc-options > button:not(.cursor-not-allowed):hover,
 body.xianxia-theme #options-container > button:not(.cursor-not-allowed):hover {
   border-color: #c99a3d;
   background: linear-gradient(145deg, #211b10, #0f0d09);
 }
+body.xianxia-theme #tactical-combat .tc-options > button > span:first-child,
 body.xianxia-theme #options-container > button > span:first-child {
   background: rgba(216,177,93,.08);
   color: #d7b45f;

diff --git a/public/cultivation/tactical-renderer.js b/public/cultivation/tactical-renderer.js
@@ -36,7 +36,7 @@ export class TacticalRenderer{
     const {canvas,ctx:c,state:s}=this,rect=canvas.getBoundingClientRect();if(!rect.width||!rect.height)return;
     const dpr=Math.min(3,window.devicePixelRatio||1),w=rect.width,h=rect.height;
     if(canvas.width!==Math.round(w*dpr)||canvas.height!==Math.round(h*dpr)){canvas.width=Math.round(w*dpr);canvas.height=Math.round(h*dpr);}
-    c.setTransform(dpr,0,0,dpr,0,0);c.clearRect(0,0,w,h);c.fillStyle='#171e19';c.fillRect(0,0,w,h);
+    c.setTransform(dpr,0,0,dpr,0,0);c.clearRect(0,0,w,h);
     const cell=this.cell=Math.min((w-20)/s.width,(h-24)/s.height),ox=this.ox=Math.round((w-cell*s.width)/2),oy=this.oy=Math.round((h-cell*s.height)/2);
     const mine=s.actors.find(a=>a.uid===this.uid),myTurn=s.status==='active'&&s.turnUid===this.uid;
     const fill=(p,color,stroke)=>{const x=ox+p.x*cell,y=oy+p.y*cell;c.fillStyle=color;c.fillRect(x+1,y+1,cell-2,cell-2);if(stroke){c.strokeStyle=stroke;c.lineWidth=1.5;c.strokeRect(x+2,y+2,cell-4,cell-4);}};

diff --git a/public/styles/xianxia-quiet.css b/public/styles/xianxia-quiet.css
@@ -293,6 +293,7 @@ body.xianxia-theme .quiz-main-column > .glass-panel:first-child {
   color: #211a10 !important;
 }
 body.xianxia-theme #page-battle .bv2-question-sheet { box-shadow: none !important; }
+body.xianxia-theme #tactical-combat .tc-options > button:not(.bg-green-600):not(.bg-red-600),
 body.xianxia-theme #options-container > button:not(.bg-green-600):not(.bg-red-600) {
   background: #322c20 !important;
   border-color: #927c4e !important;
@@ -329,6 +330,7 @@ body.xianxia-theme #scope-studio :is(.ss-picker,.ss-cart) {
     border-color: #d9b66d !important;
     box-shadow: none !important;
   }
+  body.xianxia-theme #tactical-combat .tc-options > button:not(.cursor-not-allowed):not(.bg-green-600):not(.bg-red-600):hover,
   body.xianxia-theme #options-container > button:not(.cursor-not-allowed):not(.bg-green-600):not(.bg-red-600):hover {
     background: #4a3a23 !important;
     border-color: #d9b66d !important;

diff --git a/public/xianxia-blackgold-harmony.css b/public/xianxia-blackgold-harmony.css
@@ -208,6 +208,7 @@ body.xianxia-theme :is(.modal-content, .shop-card, .item-card, .rank-card, .hist
 
 body.xianxia-theme :is(.btn-cyber-primary, .btn-cyber-accent, .btn-cyber-ghost, .xiuxian-btn),
 body.xianxia-theme .home-actions > button,
+body.xianxia-theme #tactical-combat .tc-options > button,
 body.xianxia-theme #options-container > button,
 body.xianxia-theme #nav-grid button {
   border-radius: 16px !important;

diff --git a/docs/tactical-combat.md b/docs/tactical-combat.md
@@ -8,6 +8,8 @@
 
 戰場內容使用獨立的區域容器，避免誤套全站 `main` 預留給導覽列的上下間距。直式將回合資訊與收起按鈕排在標題同列，壓縮狀態／操作區的間距，地圖使用剩餘高度；不再以固定最小高度把下方操作擠出舞台。移動、攻擊、技能、護身與結束回合皆完整留在畫面內。
 
+視覺沿用原問道試煉的墨金配色、山水底圖、金邊題目卡、選項與正誤色彩。題目及作答回顧共用原站主題的 CSS 宣告，僅增加對戰棋元件的選擇器；不在頁面重複使用原問道的元素 ID，也不接管舊答題控制器。走位、答題補充體力及逐關打怪的流程維持現行戰棋規則。
+
 - 首頁「問道試煉」按下後立即啟動既有全螢幕雲幕，在雲幕遮住畫面時載入目前關卡，直接進場；不顯示地形或分支選擇。既有任務入口也走相同流程。「鬥法論道」維持雙人配對入口。
 - 問道試煉逐關推進，每關依種子決定 1～4 隻怪物，種類、生命、攻擊、移動速度與攻擊範圍可不同。怪物以紅格預告攻擊；移開即可避開，遠處怪物會先接近；每五關可遇鎮關守衛。
 - 單人關卡隨機選取 7×7、9×7、11×9 戰場大小，搭配竹林、荒漠、雪嶺、庭苑或遺墟地形；石障、樹木、水域與出生點由種子生成。每次放置障礙後檢查地面連通性，確保敵我不被封死。雙人鬥法仍可選演武庭、青竹幽徑或古陣遺墟。
@@ -75,5 +77,7 @@ node scripts/test-tactical-browser.cjs
 ```
 
 瀏覽器測試需要可用的 Playwright 與 Chromium；可用 `TACTICAL_CHROMIUM` 指定執行檔，`TACTICAL_FONT_DIR` 指定本機 `@fontsource/noto-sans-tc` 目錄供測試截圖使用。測試伺服器只綁定 localhost，使用記憶體資料與假身分，不連接正式帳號／AI／資料庫。
+
+答題與作答回顧在直式、橫式都與載入相同正式樣式的原問道頁面比對：題卡底色／邊框、題幹字級／行高、選項顏色／圓角，包含答對及未選選項。題目開啟時使用原山水底圖覆蓋戰場，避免地圖與操作文字透到題卡後面。
 
 規則測試另涵蓋 80 個關卡的穩定生成與連通性、通關只前進一次、並行進場接續同一關、失敗不重抽，以及九丹全部元神變化的技能對應。瀏覽器透過正式 `stage.html`、`game-stage.js`、`app-stage-bridge.js` 與全站主題樣式載入戰場，驗證手機、平板、一般與超寬螢幕共六種尺寸的固定比例、縮放後點選，以及雲幕／彈窗邊界；檢查內容不繼承主頁上下留白，所有操作按鈕完整位於舞台內，並覆蓋四隻敵人、體力為零且已答滿兩題時仍能結束回合。直接載入正式雲幕實作，涵蓋按下即進場、進場全程沒有選擇畫面、下一關、手機直式／橫式、答題加體力、移動回應遺失後自動重試、重新整理續關、雙人配對與換手同步。正式雲端 AI 出題及正式 D1 延遲仍需在此分支的部署環境驗收。
